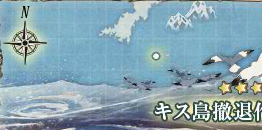
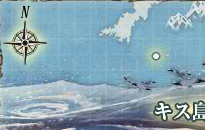
revert/update combat panel images; move expedition_finish.png; update ocr function; expand rclick area for expedition_finish.png

diff --git a/kancolle_auto.sikuli/util.sikuli/util.py b/kancolle_auto.sikuli/util.sikuli/util.py
@@ -27,9 +27,9 @@ def get_util_config():
 def sleep(base, flex=-1):
     global util_settings
     if flex == -1:
-        tsleep(uniform(base + util_settings['sleep_mod'], base * 2 + util_settings['sleep_mod']))
+        tsleep(uniform(base, base * 2) + util_settings['sleep_mod'])
     else:
-        tsleep(uniform(base + util_settings['sleep_mod'], flex + util_settings['sleep_mod']))
+        tsleep(uniform(base, flex) + util_settings['sleep_mod'])
 
 # Custom function to get timer value of Kancolle (in ##:##:## format). Attempts
 # to fix values in case OCR grabs the wrong characters.
@@ -42,10 +42,11 @@ def check_timer(kc_window, timer_img, width):
         timer[5] = ':'
         timer = ''.join(timer)
         timer = (
-            timer.replace('l', '1').replace('I', '1').replace('[', '1').replace(']', '1')
-            .replace('|', '1').replace('!', '1').replace('O', '0').replace('o', '0')
-            .replace('D', '0').replace('Q', '0').replace('@', '0').replace('S', '5')
-            .replace('s', '5').replace('$', '5').replace('B', '8').replace(' ', '')
+            timer.replace('O', '0').replace('o', '0').replace('D', '0')
+            .replace('Q', '0').replace('@', '0').replace('l', '1').replace('I', '1')
+            .replace('[', '1').replace(']', '1').replace('|', '1').replace('!', '1')
+            .replace('Z', '2').replace('S', '5').replace('s', '5').replace('$', '5')
+            .replace('B', '8').replace(' ', '')
         )
         m = match(r'^\d{2}:\d{2}:\d{2}$', timer)
         if m:

diff --git a/kancolle_auto.sikuli/kancolle_auto.py b/kancolle_auto.sikuli/kancolle_auto.py
@@ -77,7 +77,7 @@ def go_home(refresh=False):
 def check_expedition():
     global kc_window, expedition_item, fleet_returned, settings
     log_msg("Are there returning expeditions to receive?")
-    if check_and_click(kc_window, 'expedition_finish.png'):
+    if check_and_click(kc_window, 'expedition_finish.png', [-400, 250, 0, 400]):
         sleep(3)
         wait_and_click(kc_window, 'next.png', WAITLONG, [-700, 30, -400, 30])
         # Identify which fleet came back
